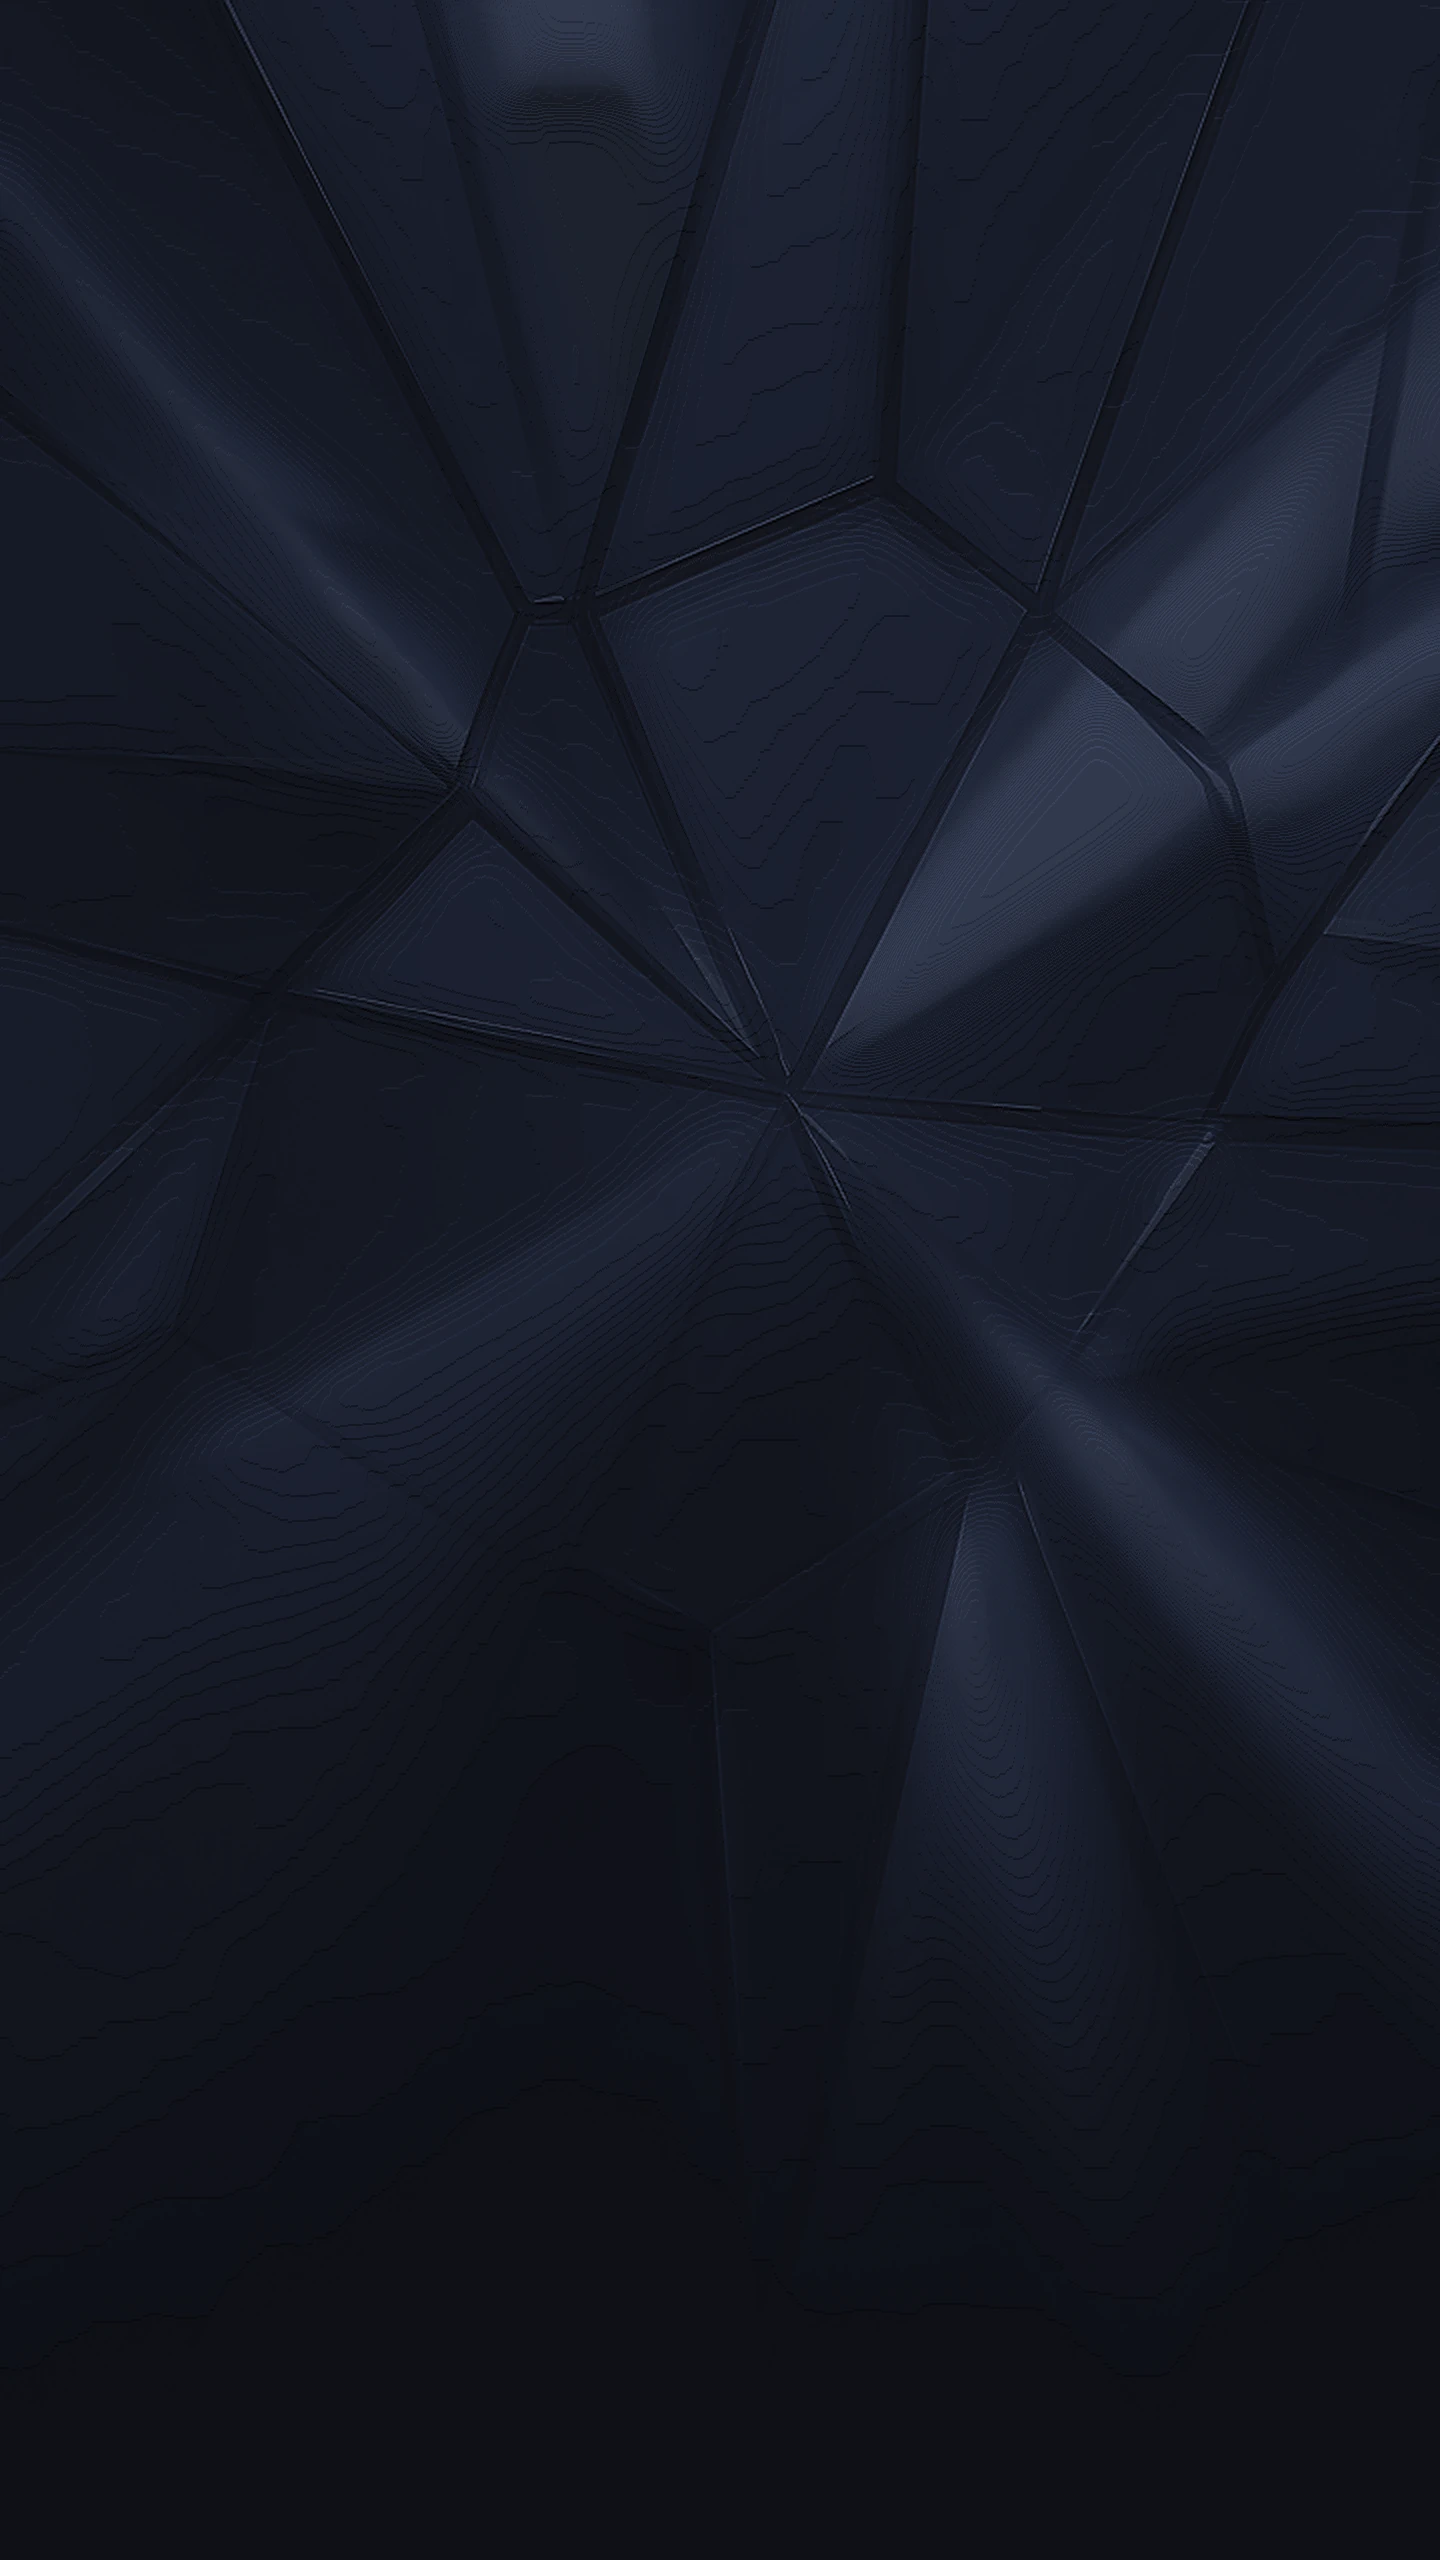
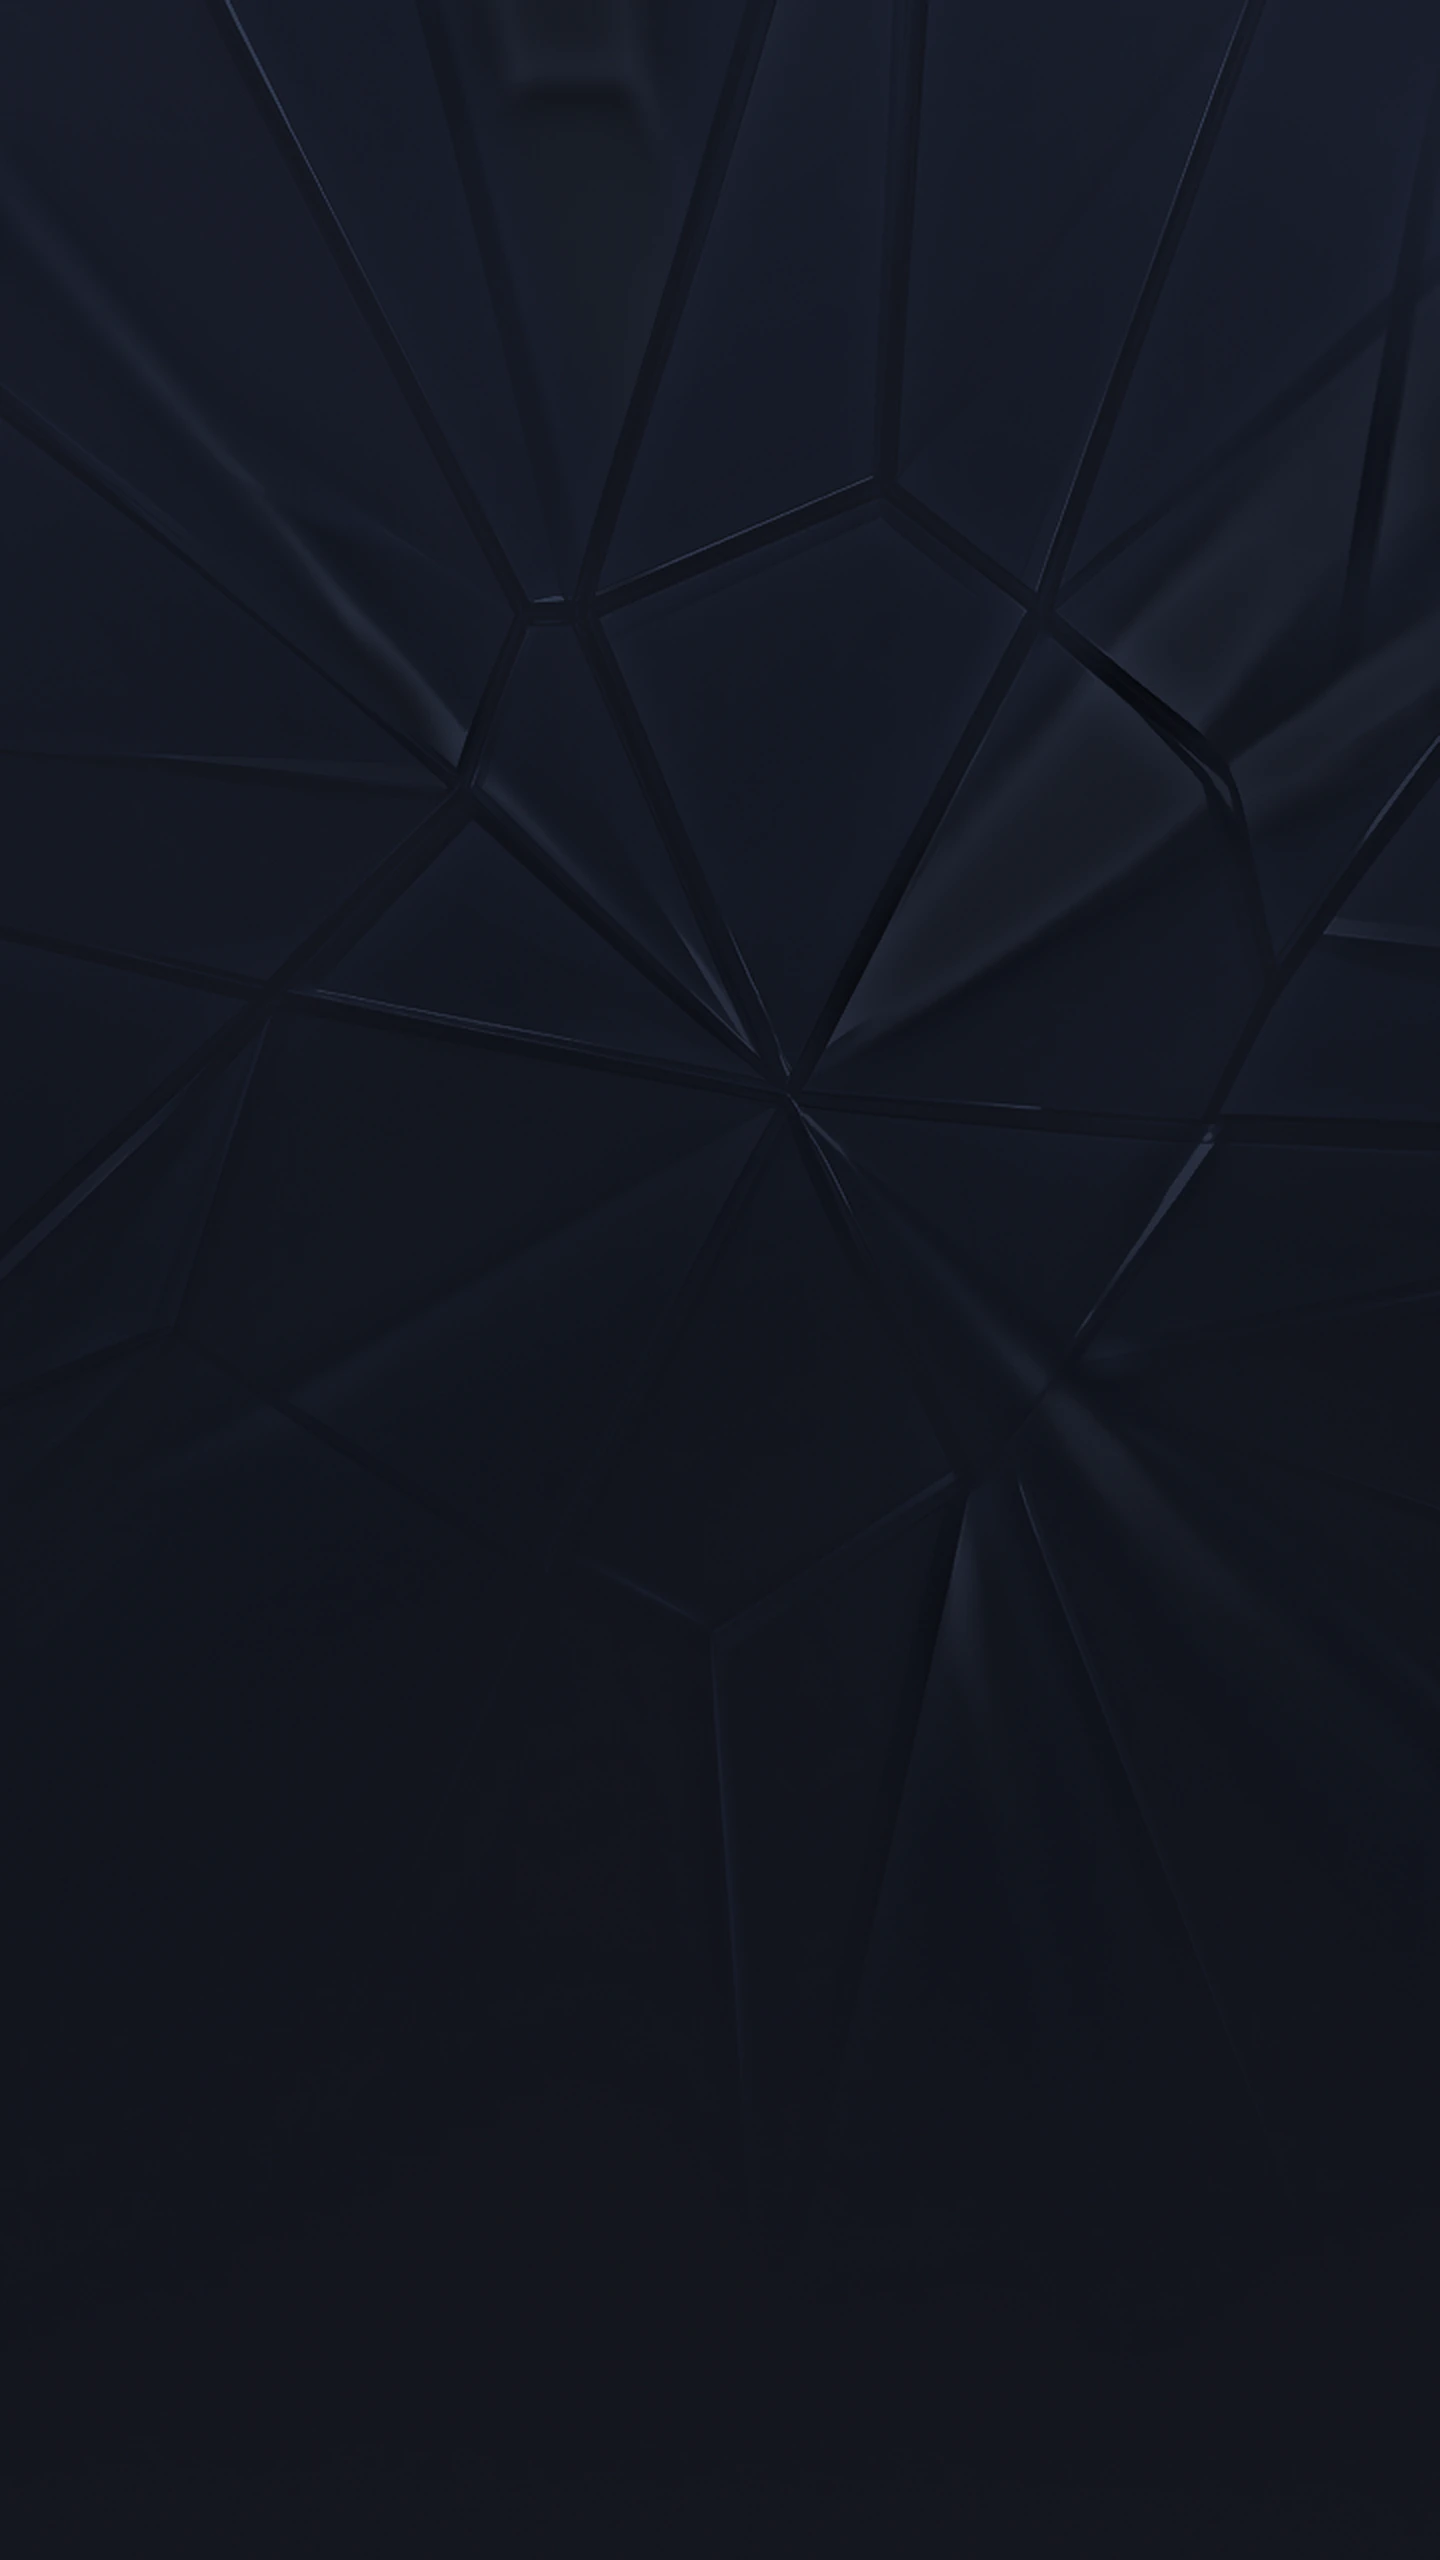
Back to the previous crystal frames, one step only

diff --git a/src/components/WalletSky.jsx b/src/components/WalletSky.jsx
@@ -8,12 +8,12 @@ import { assetUrl } from '../lib/format.js'
  * full circle the highlight can travel anywhere. App.css does the weighting.
  */
 const LIGHT_FRAMES = [
-  'wallet-crystal-1.webp',
-  'wallet-crystal-2.webp',
-  'wallet-crystal-3.webp',
-  'wallet-crystal-4.webp',
-  'wallet-crystal-5.webp',
-  'wallet-crystal-6.webp',
+  'wallet-crystal-1.webp?v=facet4',
+  'wallet-crystal-2.webp?v=facet4',
+  'wallet-crystal-3.webp?v=facet4',
+  'wallet-crystal-4.webp?v=facet4',
+  'wallet-crystal-5.webp?v=facet4',
+  'wallet-crystal-6.webp?v=facet4',
 ]
 
 export function WalletSky() {

diff --git a/src/App.css b/src/App.css
@@ -1202,7 +1202,7 @@
 .wallet-opal-4,
 .wallet-opal-5,
 .wallet-opal-6 {
-  --gain: 1.7;
+  --gain: 2.2;
   will-change: opacity;
   opacity: clamp(
     0,
